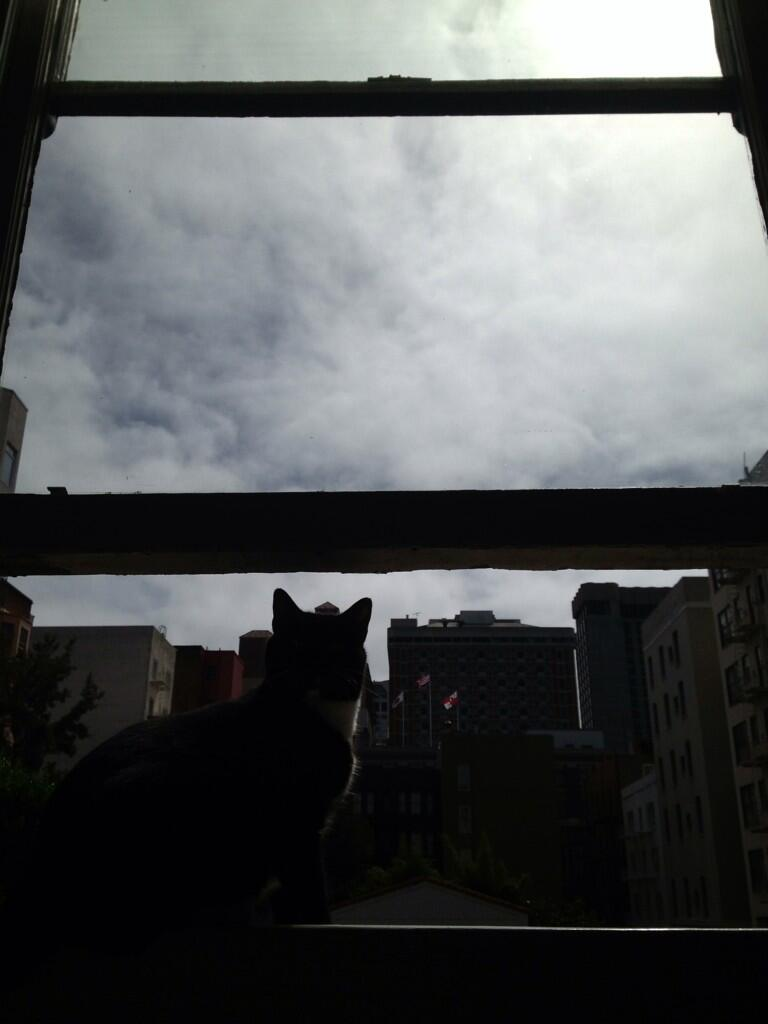
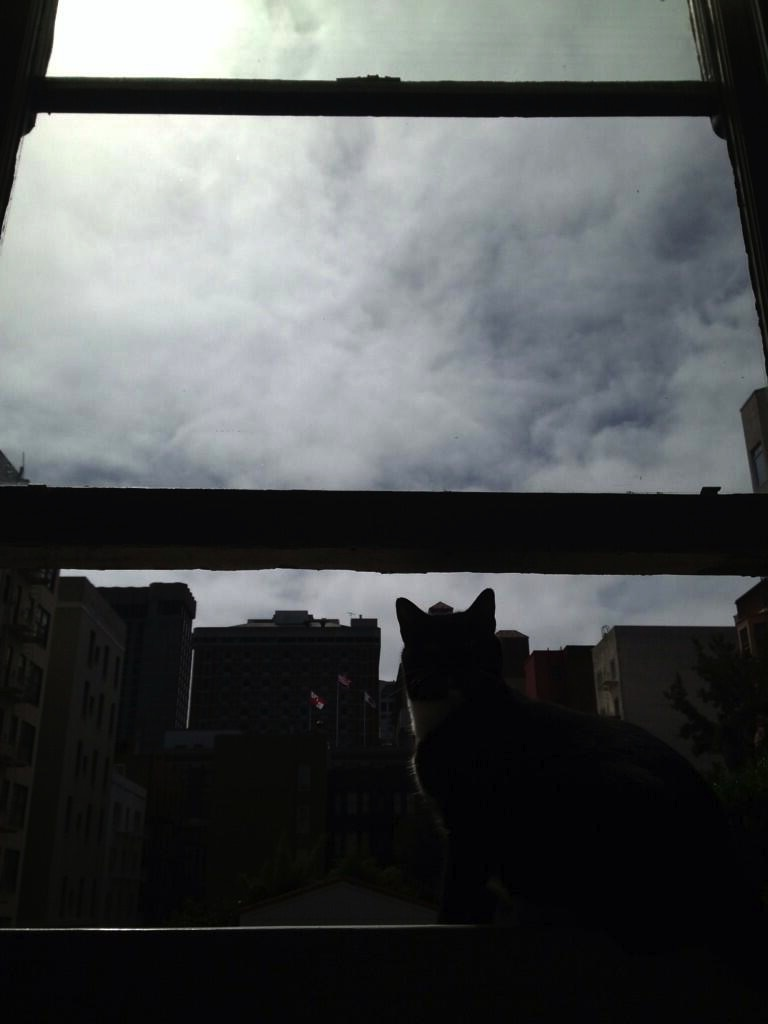
flipping kitty, adding tender

diff --git a/style.css b/style.css
@@ -1,11 +1,26 @@
 body,
 html {
     margin-top: 0;
-    text-align: center;
     background-color: rgb(7, 7, 9);
 }
 
-img {
+.cat {
+    text-align: center;
+}
+
+.cat > img {
     width: 100%;
     max-width: 600px;
+}
+
+.tender {
+    width: 100%;
+    max-width: 600px;
+    margin: 0 auto;
+}
+
+.tender > h1 {
+    font-family: 'Cedarville Cursive', cursive;
+    color: #242424;
+    margin: 0;
 }

diff --git a/index.html b/index.html
@@ -2,9 +2,17 @@
 <head>
   <title>tendercat</title>
   <link rel="stylesheet" type="text/css" href="style.css" />
+  <link rel="shortcut icon" href="favicon.ico" />
 </head>
 
 <body>
-  <img src="cat-window.jpg" />
+  <div class="cat">
+    <img src="cat-window.jpg" />
+  </div>
+
+  <div class="tender">
+    <h1>tender</h1>
+  </div>
+
 </body>
 </html>
